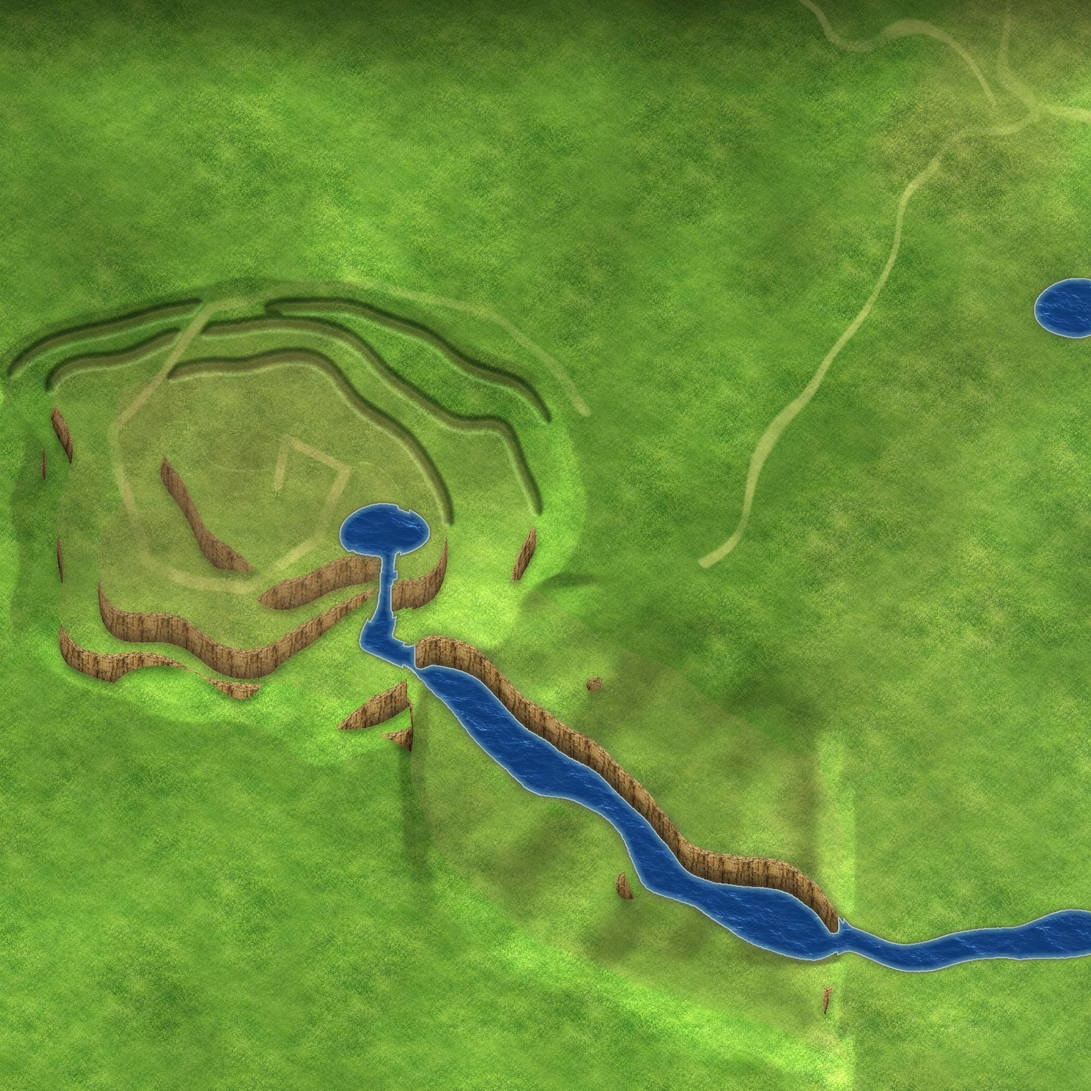
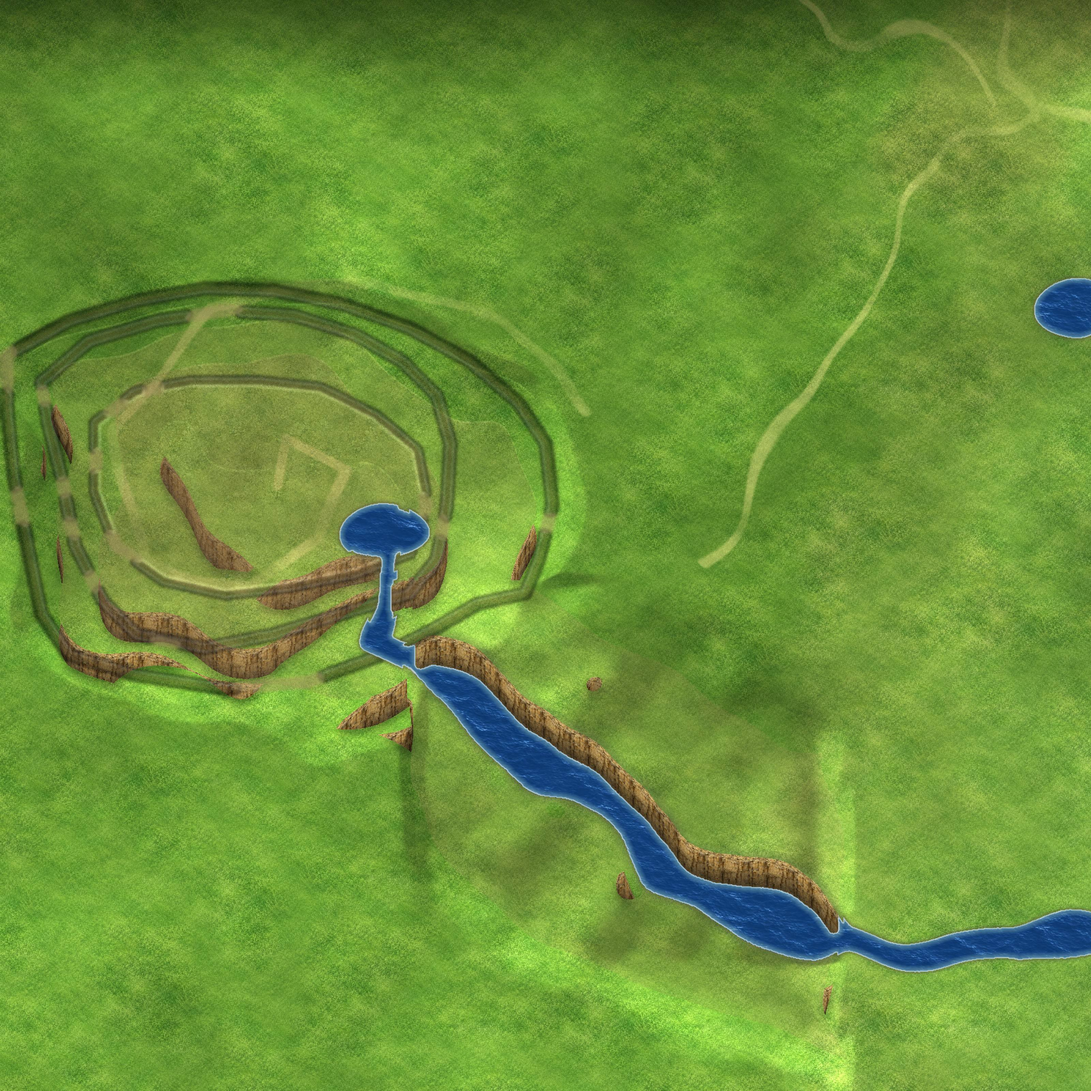
山的真实高低差：按等高线分 3 层，紫色路线处为坡道；同层才能近战，远程可由高打低；怪物用寻路图找坡道上山
Claude-Session: https://claude.ai/code/session_011WrGna6yNwTfpmyp4CxMHs

Changed region(s): [[0.0, 0.25, 0.5312, 0.6562]]

diff --git a/src/main.js b/src/main.js
@@ -2,6 +2,8 @@
 import {createMenu} from './menu.js';
 import {createSurvival} from './survival.js';
 import {createEnemies} from './enemies.js';
+import {createTerrain} from './terrain.js';
+const TER=window.TER=createTerrain();
 import {createWeather} from './weather.js';
 import {createRun} from './run.js';
 import {createDebug} from './debug.js';
@@ -49,7 +51,7 @@ const region=(x,y)=>{const [gw,gh]=D.rgrid||[64,64],i=D.rmap[Math.min(gh-1,Math.
 const hero={x:WW*AT[0],y:WH*AT[1],face:1};const CO=objs.filter(o=>o.r);
 function water(x,y){x=Math.round(x);y=Math.round(y);if(x<0||y<0||x>=WW||y>=WH)return 1;return CM[(y*WW+x)*4]}
 function blocked(x,y){
- if(water(x,y)===1||water(x-3,y)===1||water(x+3,y)===1||water(x,y-2)===1)return true;
+ const w0=water(x,y),w1=water(x-3,y),w2=water(x+3,y),w3=water(x,y-2);if(w0===1||w1===1||w2===1||w3===1||w0===4||w1===4||w2===4||w3===4)return true;
  for(const o of CO){const dx=x-o.x,dy=(y-o.y)*1.3;if(dx*dx+dy*dy<(o.r+3)*(o.r+3))return true}return false}
 const ok=(x,y)=>!blocked(x,y);
 const HK=+(new URLSearchParams(location.search).get('hk')||1);let nextAtk=0;
@@ -76,7 +78,7 @@ let fish=null;const deepAt=(x,y,r)=>x>2100&&y>WH-1000&&[[0,0],[r,0],[-r,0],[0,r*
 let last=0,mm,rip=[],fp=[],fpl={x:0,y:0},fpside=1,cloud;
 function mkCloud(){const n=96,g=[];for(let i=0;i<64;i++)g.push(Math.random());const v=(x,y)=>{const fx=x/n*8,fy=y/n*8,x0=Math.floor(fx),y0=Math.floor(fy),tx=fx-x0,ty=fy-y0,s=t=>t*t*(3-2*t),q=(a,b)=>g[((b%8+8)%8)*8+((a%8+8)%8)];const a=q(x0,y0)*(1-s(tx))+q(x0+1,y0)*s(tx),b=q(x0,y0+1)*(1-s(tx))+q(x0+1,y0+1)*s(tx);return a*(1-s(ty))+b*s(ty)};
  cloud=document.createElement('canvas');cloud.width=n;cloud.height=n;const x=cloud.getContext('2d'),im=x.createImageData(n,n);for(let j=0;j<n;j++)for(let i=0;i<n;i++){const val=v(i,j)*.7+v(i*2,j*2)*.3,a=Math.max(0,Math.min(1,(val-.5)/.22))*.26;const k=(j*n+i)*4;im.data[k]=18;im.data[k+1]=40;im.data[k+2]=28;im.data[k+3]=a*255}x.putImageData(im,0,0)}
-function start(){const t=document.createElement('canvas');t.width=WW;t.height=WH;const x=t.getContext('2d');x.drawImage(IM.coll,0,0);CM=x.getImageData(0,0,WW,WH).data;
+function start(){TER.water=water;TER.load('assets/map/level.png?v='+W.ver,WW,WH);const t=document.createElement('canvas');t.width=WW;t.height=WH;const x=t.getContext('2d');x.drawImage(IM.coll,0,0);CM=x.getImageData(0,0,WW,WH).data;
  {const mm=$('mm');mm.height=Math.round(84*WH/WW);mm.style.setProperty('--mma',WW/WH)}
  mmc=document.createElement('canvas');mmc.width=84;mmc.height=Math.round(84*WH/WW);{const g=mmc.getContext('2d');const T=D.tiles.T,s=mmc.width/WW;for(const k of D.gt){const im=IM[k];g.drawImage(im,+k[1]*T*s,+k[2]*T*s,im.width/HD*s,im.height/HD*s)}}
  document.querySelectorAll('#cs button').forEach(b=>b.onclick=()=>{CS=b.dataset.c;if(needLoad())loadSet(CS);document.querySelectorAll('#cs button').forEach(x=>x.setAttribute('aria-pressed',x===b))});
@@ -108,6 +110,7 @@ let flT=0;function loop(now){if(now-flT<(menu?.visible?32:15.5)){requestAnimatio
  const dt=Math.min(.05,(now-last)/1000||0);last=now;
  dbg?.show(!menu?.visible);
  if(menu?.visible){menu.draw(now);requestAnimationFrame(loop);return}
+ if(TER.ready)TER.flow(ok,hero.x,hero.y,now);
  if(survival?.finished){requestAnimationFrame(loop);return}
  const pz=run?.paused,gdt=pz?0:dt;
  c.setTransform(SC,0,0,SC,0,0);
@@ -129,7 +132,7 @@ let flT=0;function loop(now){if(now-flT<(menu?.visible?32:15.5)){requestAnimatio
    else if(!weaponAttack.hit&&el>(wpm=='long'?190:170)){weaponAttack.hit=true;const reach=wpm=='long'?54:46,wid=wpm=='long'?14:22;for(const e of en){const ex=(e.x-hero.x)*hero.face,ey=e.y-hero.y;if(ex>-8&&ex<reach&&Math.abs(ey)<wid)hitEnemy(e,now,hero.face)}}
    if(el>DUR){weaponAttack=null;nextAtk=now+140}}
   for(const p of pj){p.x+=p.dx*p.v*dt;p.y+=p.dy*p.v*dt;p.life-=dt;for(const e of en){if(!e.dead&&Math.abs(e.x-p.x)<7&&Math.abs(e.y-p.y)<9){hitEnemy(e,now,p.dx>0?1:-1);p.life=0;break}}}
-  pj=pj.filter(p=>p.life>0&&ok(p.x,p.y))}
+  pj=pj.filter(p=>p.life>0&&water(p.x,p.y)!==1)}
  for(let i=en.length-1;i>=0;i--){const e=en[i];if(e.dead&&!e.counted){e.counted=true;kills++;run.onKill(e)}if(e.expired)en.splice(i,1)}
  if(!pz){const w=run.want();for(let n=0;n<4&&en.filter(e=>!e.dead).length<w;n++)spawn()}
  survival?.update(gdt);

diff --git a/src/run.js b/src/run.js
@@ -43,9 +43,9 @@ export function createRun({hero,en,images,hitEnemy,survival,ok,makeEnemy}){
   else if(S.t>=S.eliteT){S.eliteT=S.t+R(60,110);e.elite=true;e.k='gob_shaman';e.hp=e.hpMax=Math.ceil(10*(1+S.t/150));e.sc=1.1;e.summonT=4}
  }
  function dmg(base){return base*(1+0.1*S.p.atk)}
- function nearest(r,from=hero){let b=null,bd=r*r;for(const e of en){if(e.dead)continue;const d=(e.x-from.x)**2+(e.y-from.y)**2;if(d<bd){bd=d;b=e}}return b}
+ function nearest(r,from=hero){let b=null,bd=r*r;for(const e of en){if(e.dead||!TER.shoot(hero.x,hero.y,e.x,e.y))continue;const d=(e.x-from.x)**2+(e.y-from.y)**2;if(d<bd){bd=d;b=e}}return b}
  function hitArc(ang,range,half,amount,opts={}){
-  let n=0;for(const e of en){if(e.dead)continue;const dx=e.x-hero.x,dy=(e.y-hero.y)*1.15,d=Math.hypot(dx,dy);if(d>range+4*(e.sc||1))continue;
+  let n=0;for(const e of en){if(e.dead)continue;const dx=e.x-hero.x,dy=(e.y-hero.y)*1.15,d=Math.hypot(dx,dy);if(d>range+4*(e.sc||1)||!TER.melee(hero.x,hero.y,e.x,e.y))continue;
    let a=Math.atan2(dy,dx)-ang;a=Math.atan2(Math.sin(a),Math.cos(a));if(Math.abs(a)>half&&d>10)continue;
    let v=amount,crit=false;if(opts.crit&&Math.random()<opts.crit){v*=opts.cm;crit=true}
    strike(e,v,Math.sign(dx)||1,crit);if(opts.kb)knock(e,opts.kb);n++}return n}
@@ -126,11 +126,11 @@ export function createRun({hero,en,images,hitEnemy,survival,ok,makeEnemy}){
   for(const k in S.w){S.cd[k]=(S.cd[k]??R(.1,.4))-dt;if(S.cd[k]<=0)S.cd[k]=FIRE[k](S.w[k])}
   for(const s of S.shots){
    if(s.k==='hammer'){s.t+=dt;if(!s.done&&s.t>=s.d){s.done=true;S.fx.push({k:'ring',x:s.x,y:s.y,r:s.r,t:0,d:.3});
-     for(const e of en){if(e.dead)continue;if((e.x-s.x)**2+((e.y-s.y)*1.3)**2<(s.r+4*(e.sc||1))**2){strike(e,s.dm,Math.sign(e.x-s.x)||1);if(!e.dead){const dx=e.x-s.x,dy=e.y-s.y,l=Math.hypot(dx,dy)||1,k=e.boss?2:12;if(ok(e.x+dx/l*k,e.y+dy/l*k)){e.x+=dx/l*k;e.y+=dy/l*k}}}}}
+     for(const e of en){if(e.dead)continue;if((e.x-s.x)**2+((e.y-s.y)*1.3)**2<(s.r+4*(e.sc||1))**2&&TER.shoot(hero.x,hero.y,e.x,e.y)){strike(e,s.dm,Math.sign(e.x-s.x)||1);if(!e.dead){const dx=e.x-s.x,dy=e.y-s.y,l=Math.hypot(dx,dy)||1,k=e.boss?2:12;if(ok(e.x+dx/l*k,e.y+dy/l*k)){e.x+=dx/l*k;e.y+=dy/l*k}}}}}
      s.dead=s.t>s.d+.05;continue}
    s.x+=s.dx*s.v*dt;s.y+=s.dy*s.v*dt;s.life-=dt;
-   for(const e of en){if(e.dead||s.hit.has(e))continue;const r=6*(e.sc||1);if(Math.abs(e.x-s.x)<r&&Math.abs(e.y-10*(e.sc||1)-s.y)<r+4){s.hit.add(e);strike(e,s.dm,s.dx>0?1:-1);if(s.pierce--<=0){s.life=0;break}}}
-   s.dead=s.life<=0||!ok(s.x,s.y+10)}
+   for(const e of en){if(e.dead||s.hit.has(e))continue;const r=6*(e.sc||1);if(Math.abs(e.x-s.x)<r&&Math.abs(e.y-10*(e.sc||1)-s.y)<r+4&&TER.shoot(hero.x,hero.y,e.x,e.y)){s.hit.add(e);strike(e,s.dm,s.dx>0?1:-1);if(s.pierce--<=0){s.life=0;break}}}
+   s.dead=s.life<=0||TER.water(s.x,s.y+10)===1}
   S.shots=S.shots.filter(s=>!s.dead);
   // 经验珠
   const mr=30*(1+.25*S.p.mag);

diff --git a/src/terrain.js b/src/terrain.js
@@ -1,0 +1,34 @@
+// 高低差：assets/map/level.png（0 山脚、1..3 山的各层、255 坡道）。
+// 同层才能近战；远程可以从高处往低处打；怪物在山上用寻路图找坡道。
+export function createTerrain(){
+ let L=null,W=0,H=0;
+ const T={ready:false,
+  load(url,ww,wh){W=ww;H=wh;return fetch(url).then(r=>r.ok?r.blob():null).then(b=>{if(!b)return;return createImageBitmap(b)}).then(bm=>{if(!bm)return;
+   const c=document.createElement('canvas');c.width=W;c.height=H;const x=c.getContext('2d');x.drawImage(bm,0,0);const d=x.getImageData(0,0,W,H).data;
+   L=new Uint8Array(W*H);for(let i=0;i<L.length;i++)L[i]=d[i*4];T.ready=true}).catch(()=>{})},
+  lv(x,y){if(!L)return 0;x=x|0;y=y|0;if(x<0||y<0||x>=W||y>=H)return 0;return L[y*W+x]},
+  // 近战：同层（坡道算任意层）
+  melee(ax,ay,bx,by){const a=T.lv(ax,ay),b=T.lv(bx,by);return a===b||a===255||b===255},
+  // 远程：目标不比自己高
+  shoot(ax,ay,bx,by){const a=T.lv(ax,ay),b=T.lv(bx,by);return a===255||b===255||b<=a},
+ };
+ // ---------- 山区寻路图 ----------
+ const X0=0,Y0=340,X1=960,Y1=1120,CS=4,GW=(X1-X0)/CS,GH=(Y1-Y0)/CS;
+ let dist=null,walk=null,tLast=-1;
+ T.inMount=(x,y)=>x>=X0&&x<X1&&y>=Y0&&y<Y1;
+ T.flow=function(ok,hx,hy,now){
+  if(!walk){walk=new Uint8Array(GW*GH);for(let j=0;j<GH;j++)for(let i=0;i<GW;i++)walk[j*GW+i]=ok(X0+i*CS+2,Y0+j*CS+2)?1:0;dist=new Int32Array(GW*GH)}
+  if(now-tLast<350)return;tLast=now;dist.fill(-1);
+  let hi=Math.max(0,Math.min(GW-1,((hx-X0)/CS)|0)),hj=Math.max(0,Math.min(GH-1,((hy-Y0)/CS)|0));
+  const q=new Int32Array(GW*GH);let qh=0,qt=0;const s=hj*GW+hi;dist[s]=0;q[qt++]=s;
+  while(qh<qt){const c=q[qh++],ci=c%GW,cj=(c/GW)|0,dc=dist[c]+1;
+   for(let dj=-1;dj<=1;dj++)for(let di=-1;di<=1;di++){if(!di&&!dj)continue;const ni=ci+di,nj=cj+dj;if(ni<0||nj<0||ni>=GW||nj>=GH)continue;const n=nj*GW+ni;
+    if(dist[n]>=0||!walk[n])continue;if(di&&dj&&(!walk[cj*GW+ni]||!walk[nj*GW+ci]))continue;dist[n]=dc;q[qt++]=n}}
+ };
+ // 返回朝向下一格的方向；没有路返回 null
+ T.dir=function(x,y){if(!dist)return null;const i=((x-X0)/CS)|0,j=((y-Y0)/CS)|0;if(i<0||j<0||i>=GW||j>=GH)return null;
+  let best=dist[j*GW+i],bx=0,by=0;if(best<0)best=1e9;
+  for(let dj=-1;dj<=1;dj++)for(let di=-1;di<=1;di++){const ni=i+di,nj=j+dj;if(ni<0||nj<0||ni>=GW||nj>=GH)continue;const v=dist[nj*GW+ni];if(v>=0&&v<best){best=v;bx=di;by=dj}}
+  if(!bx&&!by)return null;const l=Math.hypot(bx,by);return[bx/l,by/l]};
+ return T;
+}

diff --git a/src/enemies.js b/src/enemies.js
@@ -28,10 +28,10 @@ export function createEnemies({data,images,hero,ok,water,onHit}){
    if(e.state==='windup'){
     if(e.timer>=.45){
      e.state='strike';e.timer=0;
-     if(stats.ranged){
+     if(stats.ranged&&TER.shoot(e.x,e.y,hero.x,hero.y)){
       const len=Math.hypot(ax,ay)||1;
       arrows.push({k:e.k,x:e.x,y:e.y-10,dx:ax/len,dy:ay/len,life:1.6,dm:stats.damage*(e.dmgMul||1)*(e.elite?1.3:1)});
-     }else if(d<=(stats.reach+5)*(e.sc||1)){onHit(stats.damage*(e.dmgMul||1)*(e.boss?2:e.elite?1.4:1))}
+     }else if(!stats.ranged&&d<=(stats.reach+5)*(e.sc||1)&&TER.melee(e.x,e.y,hero.x,hero.y)){onHit(stats.damage*(e.dmgMul||1)*(e.boss?2:e.elite?1.4:1))}
     }
    }else if(e.state==='strike'){
     if(e.timer>=.2){e.state='recover';e.timer=0}
@@ -39,9 +39,11 @@ export function createEnemies({data,images,hero,ok,water,onHit}){
     if(e.timer>=.45){e.state='move';e.timer=0;e.cooldown=.55+Math.random()*.35}
    }else{
     e.cooldown=Math.max(0,e.cooldown-dt);
-    if(d<=stats.reach*(e.sc||1)&&e.cooldown===0){e.state='windup';e.timer=0;continue}
-    if(d>stats.reach*(e.sc||1)*.85){
-     const oldx=e.x,oldy=e.y,dist=(e.boss?.8:1)*stats.speed*(water(e.x,e.y)===2?.6:1)*dt*speed,mx=ax/d*dist,my=ay/d*dist;
+    const same=TER.melee(e.x,e.y,hero.x,hero.y)||(stats.ranged&&TER.shoot(e.x,e.y,hero.x,hero.y));
+    if(same&&d<=stats.reach*(e.sc||1)&&e.cooldown===0){e.state='windup';e.timer=0;continue}
+    if(!same||d>stats.reach*(e.sc||1)*.85){
+     const fd=(!same||TER.inMount(e.x,e.y))&&TER.dir(e.x,e.y),ux=fd?fd[0]:ax/d,uy=fd?fd[1]:ay/d;
+     const oldx=e.x,oldy=e.y,dist=(e.boss?.8:1)*stats.speed*(water(e.x,e.y)===2?.6:1)*dt*speed,mx=ux*dist,my=uy*dist;
      if(ok(e.x+mx,e.y+my)){e.x+=mx;e.y+=my}else if(ok(e.x+mx,e.y)){e.x+=mx}else if(ok(e.x,e.y+my)){e.y+=my}
      else if(ok(e.x-my*1.6,e.y+mx*1.6)){e.x-=my*1.6;e.y+=mx*1.6}
      e.moving=e.x!==oldx||e.y!==oldy;
@@ -53,7 +55,7 @@ export function createEnemies({data,images,hero,ok,water,onHit}){
    const vx=p.x-oldx,vy=p.y-oldy,v2=vx*vx+vy*vy;
    const t=v2?Math.max(0,Math.min(1,((hero.x-oldx)*vx+(hero.y-10-oldy)*vy)/v2)):0;
    if(Math.hypot(oldx+vx*t-hero.x,oldy+vy*t-(hero.y-10))<8){onHit(p.dm);arrows.splice(i,1)}
-   else if(p.life<=0||!ok(p.x,p.y+10))arrows.splice(i,1);
+   else if(p.life<=0||water(p.x,p.y+10)===1)arrows.splice(i,1);
   }
  }
  function frame(e,now){

diff --git a/tools/rebuild_nature.py b/tools/rebuild_nature.py
@@ -33,22 +33,16 @@ yy_,xx_=np.mgrid[0:H,0:W]
 mtr=rockc&(xx_<850)&(yy_<1100)&(yy_>300)
 mount=cv2.morphologyEx(dil(mtr,25).astype(np.uint8),cv2.MORPH_CLOSE,disk(60))
 inv=(1-mount).astype(np.uint8); cv2.floodFill(inv,None,(W-1,H-1),2); mount=(mount>0)|(inv==1)   # 西边的山（填满内部）
-back=np.zeros_like(rockc); ridge=np.zeros_like(rockc)                               # 山的背面：画面上没有崖壁的台地边 → 改成能走的缓坡
+back=np.zeros_like(rockc); ridge0=np.zeros_like(rockc)                               # 山的背面：画面上没有崖壁的台地边 → 改成能走的缓坡
 n,lab,st,_=cv2.connectedComponentsWithStats(mtr.astype(np.uint8))
 for i in range(1,n):
     m=lab==i; px=g[m]
     if (px[:,0]-px[:,1]).mean()<0:
         if st[i][2]>=170:
             cut=m&(xx_<460)&(yy_>590)          # 内圈台地左下那条斜尾巴：删掉
-            ridge|=m&~cut; back|=cut
+            ridge0|=m&~cut; back|=cut
         else: back|=m                         # 短的：删掉（可走，并抹掉地面上的线）
-print('删掉的短台地线',back.sum(),'保留的高低差',ridge.sum())
-# 高低差：外侧（低处）一条阴影，内侧上沿亮边
-cx_,cy_=np.nonzero(mtr)[1].mean(),np.nonzero(mtr)[0].mean()
-rd=np.hypot(xx_-cx_,yy_-cy_).astype(np.float32)
-rdil=dil(ridge,8); rin=blur(ridge,1.5)
-rmean=cv2.blur((rd*ridge).astype(np.float32),(31,31))/np.maximum(cv2.blur(ridge.astype(np.float32),(31,31)),1e-3)
-ridge_lo=blur(rdil&~ridge&(rd>rmean),2.0); ridge_hi=blur(rdil&~ridge&(rd<rmean)&~dil(ridge,4),1.5)
+print('删掉的短台地线',back.sum(),'保留的高低差',ridge0.sum())
 
 # ---------- 新水域 ----------
 watc=cv2.morphologyEx(wat0.astype(np.uint8),cv2.MORPH_CLOSE,disk(7)).astype(bool)   # 把桥面那条缝补上
@@ -81,8 +75,27 @@ ford=dil(ford,WID+3)&watw
 print('过河点',len(fords))
 C=C0.copy(); C[watw]=1; C[ford]=2
 C[(C0==2)&~watw]=0
-C[back]=0
-C[ridge]=1
+# ---------- 山的高度层：等高线(art_src/map/mountain_levels.json) + 上山路线(mountain_paths.json) ----------
+LV=json.load(open(ROOT+'/art_src/map/mountain_levels.json'))['层']
+PATHS=json.load(open(ROOT+'/art_src/map/mountain_paths.json'))
+lv=np.zeros((H,W),np.uint8); edge=np.zeros((H,W),np.uint8)
+for k,poly in enumerate(LV):
+    m=np.zeros((H,W),np.uint8); cv2.fillPoly(m,[np.array(poly,np.int32)],1); lv[m>0]=k+1
+    cv2.polylines(edge,[np.array(poly,np.int32)],True,1,5)
+pm=np.zeros((H,W),np.uint8)
+for L_ in PATHS:
+    if len(L_['点'])>15: cv2.polylines(pm,[np.array(L_['点'],np.int32)],False,1,18)
+ramp=dil((edge>0)&(pm>0),6)&dil(edge>0,6)
+ridge=(edge>0)&~ramp&~watw
+C[back|ridge0]=0                                   # 旧台地线不再挡路，高低差由等高线决定
+C[ridge]=4; C[ramp&~watw&(C==1)&~rockc]=0     # 4 = 崖坎：挡人不挡箭
+lvo=lv.copy(); lvo[ramp]=255
+print('坡道',int(ramp.sum()),'崖坎',int(ridge.sum()))
+Image.fromarray(lvo).save(MAP+'level.png',optimize=True)
+lo_side=np.zeros((H,W),bool); hi_side=np.zeros((H,W),bool); rd2=dil(ridge,7)&~ridge
+for k in range(1,len(LV)+1):
+    lo_side|=rd2&(lv==k-1); hi_side|=dil(ridge,4)&~ridge&(lv==k)
+rin=blur(ridge,1.2); ridge_lo=blur(lo_side,2.0); ridge_hi=blur(hi_side,1.5); rampb=blur(ramp&~watw,2)
 Image.fromarray(np.dstack([C,np.zeros_like(C),np.zeros_like(C)])).save(MAP+'coll.png',optimize=True)
 # ---------- 画水 ----------
 S=900
@@ -121,6 +134,7 @@ for y0 in range(0,H*HD,BH):
     bank=np.clip(1+s/4,0,1)*(s<=0)*(1-L(seanear))
     rf=L(rin); col=col*(1-rf)+(col*0.55+np.array([70,58,34],np.float32)*0.45)*rf     # 坡面：土色
     col=col*(1-0.5*L(ridge_lo))+36*L(ridge_hi)
+    rp_=L(rampb); col=col*(1-0.5*rp_)+np.array([168,148,98],np.float32)*0.5*rp_     # 坡道：土路
     gr_=np.random.default_rng(y0).random((h,Wd,1)).astype(np.float32)
     sc_=L(sand); wt_=L(wet)
     sandc=(np.array([222,204,158],np.float32)*(1-wt_)+np.array([168,148,108],np.float32)*wt_)*(0.93+0.12*gr_)
